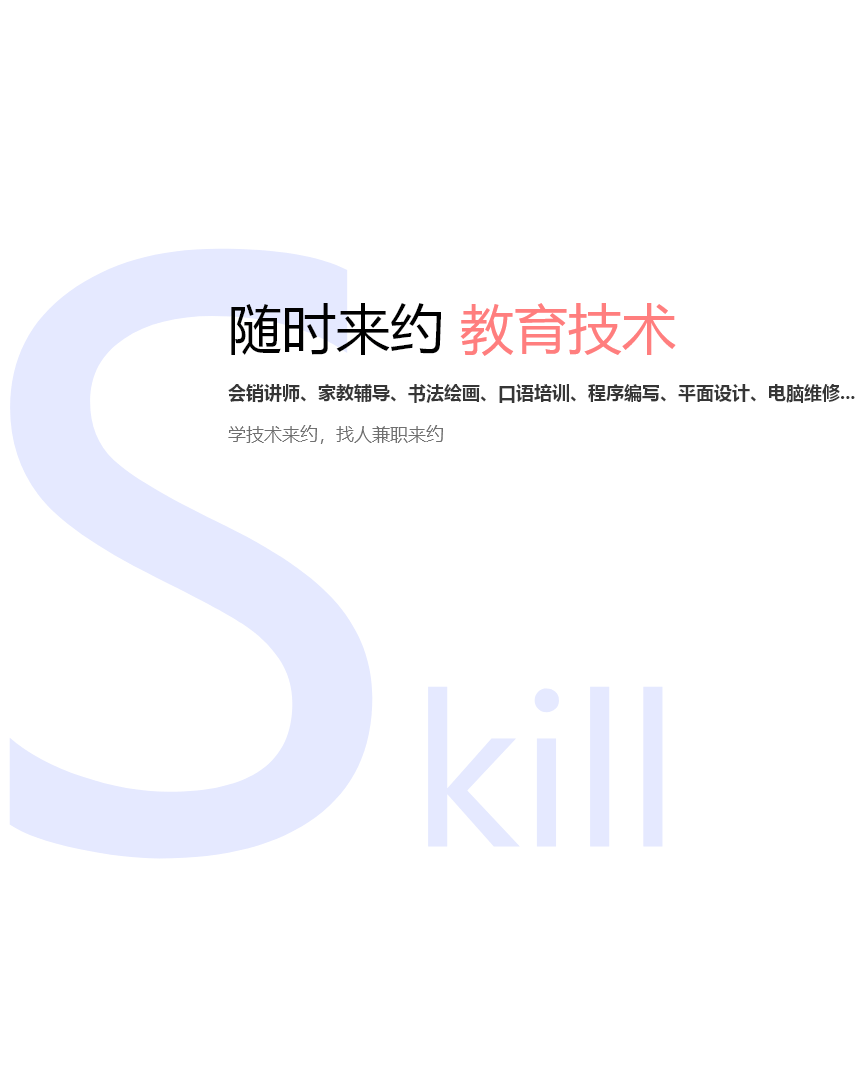
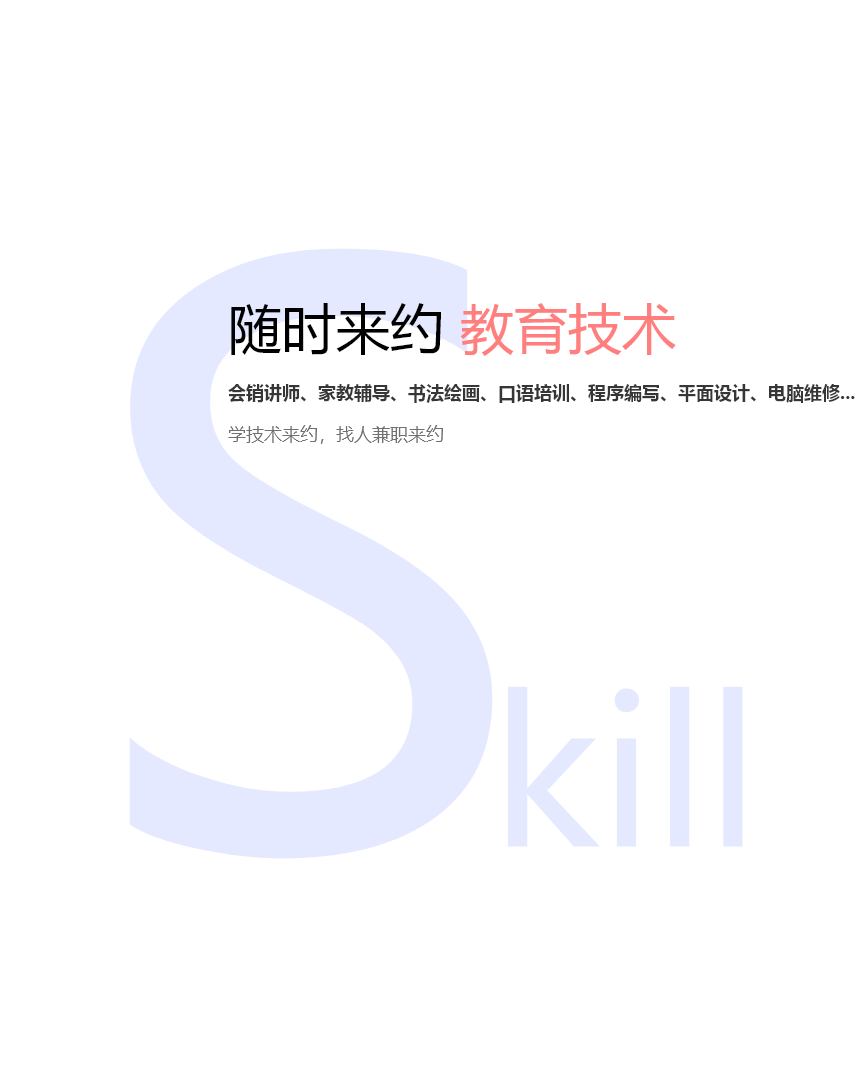
ssy

Changed region(s): [[0.0, 0.2139, 0.8767, 0.7944], [0.3326, 0.2139, 0.5442, 0.3361]]

diff --git a/src/components/index.vue b/src/components/index.vue
@@ -1,6 +1,6 @@
 <template>
   <!-- swiper -->
-  <swiper :options="swiperOption">
+  <swiper :options="swiperOption" ref="mySwiper">
     <swiper-slide class="slide-first">
       <div class="inner-slide">
         <div class="figure-left">
@@ -9,7 +9,7 @@
         <div class="figure-center">
           <img src="@/assets/imgs/logo_all.png" alt="" class="text">
           <img src="@/assets/imgs/people1.png" alt="" class="figure1">
-          <a href="javascript:;" class="download-btn">
+          <a href="javascript:;" class="download-btn" @click="goDownload">
             <img src="@/assets/imgs/download_btn.png" alt="">
           </a>
         </div>
@@ -84,6 +84,7 @@
           <img src="@/assets/imgs/phone.png" alt="">
         </div>
       </div>
+      <canvas id="canvas"></canvas>
       <div class="footer">
         <router-link to="/" exact><img src="@/assets/imgs/logo.png" alt=""></router-link>
         <p>©2016 随时约 京ICP备 15011114号-1</p>
@@ -94,6 +95,7 @@
 </template>
 
 <script>
+
 // require styles
 import 'swiper/dist/css/swiper.css'
 import { swiper, swiperSlide } from 'vue-awesome-swiper'
@@ -105,6 +107,7 @@ export default {
   },
   data () {
     return {
+      // 首页轮播图配置
       swiperOption: {
         direction: 'vertical',
         width: window.innerWidth,
@@ -112,17 +115,16 @@ export default {
         mousewheel: true,
         simulateTouch: false,
         keyboard: true,
+        slideActiveClass: 'index-slide-active',
         pagination: {
           el: '.swiper-pagination',
           clickable: true
         },
         on: {
           slideNextTransitionStart: function () {
-            console.log(this.activeIndex)
             $('.the-header').hide()
           },
           slidePrevTransitionStart: function () {
-            console.log(this.activeIndex)
             if (this.activeIndex === 0) $('.the-header').show()
           }
         }
@@ -132,6 +134,20 @@ export default {
   mounted: function () {
     // $('body, html, #app').css({'height': '100%', 'position': 'relative', 'overflow-y': 'hidden', 'min-width': '1200px'})
     $('body, html, #app').addClass('swiper-page')
+  },
+  computed: {
+    swiper () {
+      return this.$refs.mySwiper.swiper
+    }
+  },
+  methods: {
+    goDownload () {
+      this.swiper.slideTo(5, 800, false)
+      setTimeout(function () {
+        $('.slide-last').removeClass('index-slide-active').addClass('index-slide-active')
+      }, 800)
+      $('.the-header').hide()
+    }
   },
   beforeRouteEnter (to, from, next) {
     // console.log('beforeRouteEnter')
@@ -159,12 +175,10 @@ export default {
   right: 50px;
 }
 .swiper-slide {
-  /*top: -65px;*/
-  /*height: 100%;*/
   overflow: hidden;
 }
 .slide-first {
-  top: 65px;
+  padding-top: 65px;
 }
 .inner-slide {
   position: absolute;
@@ -211,6 +225,13 @@ export default {
   right: 0;
   margin: auto;
   height: 20%;
+  transform: translateY(-20px);
+  opacity: 0;
+  transition: all .8s linear;
+}
+.index-slide-active.slide-first .text {
+  transform: translateY(0);
+  opacity: 1;
 }
 .slide-first .download-btn {
   position: absolute;
@@ -227,8 +248,13 @@ export default {
   position: absolute;
   bottom: 65px;
   left: 50%;
-  transform: translateX(-50%);
+  transform: translate(-50%, 20px);
+  /*transform: translateY(20px);*/
   height: 60%;
+  transition: all .8s linear;
+}
+.index-slide-active.slide-first .figure1 {
+  transform: translate(-50%, 0);
 }
 .inner-slide .text {
   left: 0;
@@ -247,12 +273,21 @@ export default {
   position: absolute;
   bottom: 0;
   left: 50%;
-  transform: translateX(-50%);
-  height: 80%;
+  transform: translate(-50%, 30px);
+  height: 90%;
+  transition: all 1s linear;
+}
+.index-slide-active .inner-slide .figure img {
+  transform: translate(-50%, 0);
 }
 .slide-last .inner-slide .figure img {
   top: 50%;
   left: 50%;
+  height: 80%;
+  transform: translate(-47%, -50%);
+  transition: all 1s linear;
+}
+.index-slide-active.slide-last .inner-slide .figure img {
   transform: translate(-50%, -50%);
 }
 .slide-last .inner-slide {
@@ -262,11 +297,15 @@ export default {
   position: absolute;
   top: 50%;
   left: 50%;
-  transform: translate(-50%, -50%);
+  transform: translate(-60%, -50%);
   width: 160px;
   text-align: center;
   font-size: 18px;
   color: #363636;
+  transition: all 1s linear;
+}
+.index-slide-active.slide-last .download-list {
+  transform: translate(-50%, -50%);
 }
 .slide-last .download-list li+li {
   margin-top: 54px;
